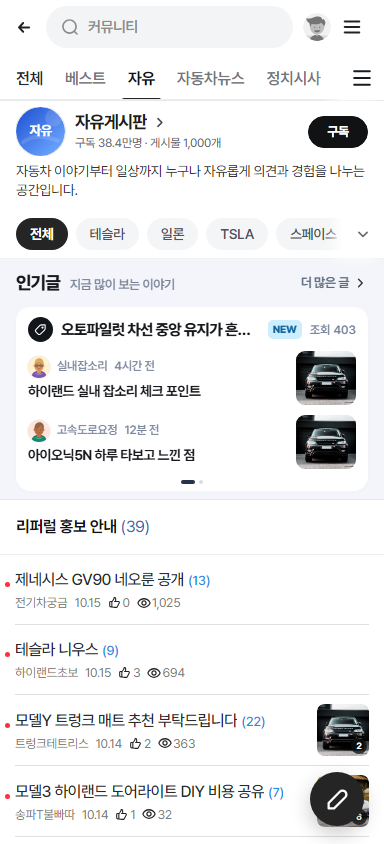
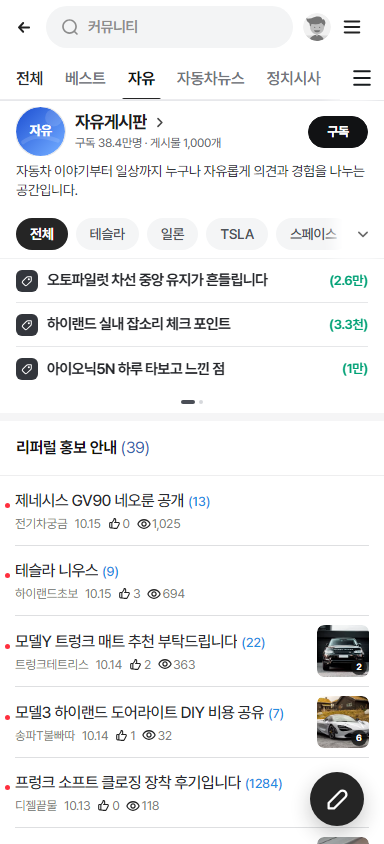
Show popular posts as Chzzk pinned rows

diff --git a/public/community/naver-cafe-list.html b/public/community/naver-cafe-list.html
@@ -9,7 +9,7 @@
 <link rel="stylesheet" href="./reddit-feed.css?v=20261016redditicons1">
 <link rel="stylesheet" href="./naver-discussion-feed.css?v=20261016naverdiscussion1">
 <link rel="stylesheet" href="./chotot-feed.css?v=20261016saveicon1">
-<link rel="stylesheet" href="./reddit-popular.css?v=20261016popular4">
+<link rel="stylesheet" href="./reddit-popular.css?v=20261016popular5">
 <link rel="stylesheet" href="./hupu-board-navigation.css?v=20261016reorder2">
 <link rel="stylesheet" href="./reddit-board-profile.css?v=20261016redditsubscribe1">
 <link rel="icon" href="./assets/chzzk-detail/author-avatar.png">
@@ -53,7 +53,7 @@
[1 lines of base64/hex data omitted]
 <section id="boardDescriptionSection" class="boardDescriptionSection"><div class="boardDescription"><span id="boardDescriptionText" class="boardDescriptionText">자동차 이야기부터 일상까지 자유롭게 나누는 보배드림 커뮤니티입니다.</span></div><button id="boardDescriptionToggle" class="sectionToggle descriptionToggle" type="button" aria-expanded="false" aria-controls="boardDescriptionText" aria-label="게시판 설명 전체 열기"><img src="assets/reddit-ui/chevron-down.svg" alt=""></button></section>
 <section id="headwordSection" class="headwordSection"><nav id="category" class="category" aria-label="말머리"></nav><button id="categoryToggle" class="categoryToggle sectionToggle" type="button" aria-expanded="false" aria-controls="category" aria-label="말머리 전체 열기"><img src="assets/reddit-ui/chevron-down.svg" alt=""></button></section>
-<section id="popularSection" class="popularSection" aria-labelledby="popularTitle"><div class="popularHeading"><div class="popularHeadingCopy"><strong id="popularTitle">인기글</strong><span>지금 많이 보는 이야기</span></div><button id="popularToggle" class="popularMore" type="button" aria-label="인기글 다음 묶음 보기" aria-controls="popularScroller"><span>더 많은 글</span><img src="assets/reddit-ui/chevron-right.svg" alt=""></button></div><div id="popularScroller" class="popularScroller"><div id="popularTrack" class="popularTrack" aria-live="polite"></div></div></section>
+<section id="popularSection" class="popularSection" aria-label="인기글"><div id="popularScroller" class="popularScroller"><div id="popularTrack" class="popularTrack" aria-live="polite"></div></div><button id="popularToggle" class="popularPagerButton" type="button" aria-label="인기글 다음 묶음 보기" aria-controls="popularScroller"></button></section>
 <section class="noticeRow"><span class="noticeText">리퍼럴 홍보 안내<span class="noticeComment">(39)</span></span></section>
 <section id="list" class="list"></section><div class="bottomSpace"></div>
 <button class="fab" aria-label="글쓰기"><img src="assets/reddit-ui/write.svg" alt=""></button>
@@ -206,7 +206,7 @@ renderList();
 // title line selector is added inside the main list controller below.
 </script>
 <script src="./scenario-data.js?v=20261015avatars1"></script>
-<script src="./reddit-popular.js?v=20261016popular4"></script>
+<script src="./reddit-popular.js?v=20261016popular5"></script>
 <script src="./reddit-feed.js?v=20261016redditicons1"></script>
 <script src="./naver-discussion-feed.js?v=20261016naverdiscussion1"></script>
 <script src="./chotot-feed.js?v=20261016redditicons2"></script>

diff --git a/public/community/reddit-popular.css b/public/community/reddit-popular.css
@@ -1,33 +1,16 @@
-.popularSection{padding:0 0 8px;border-bottom:1px solid #e5e8ef;background:#f3f5fa;color:#17191d}
-.popularHeading{display:flex;width:100%;height:48px;align-items:center;justify-content:space-between;padding:0 16px;box-sizing:border-box}
-.popularHeadingCopy{display:flex;min-width:0;align-items:baseline;gap:10px}
-.popularHeadingCopy strong{flex:0 0 auto;font-size:18px;font-weight:800;line-height:24px;letter-spacing:-.055em}
-.popularHeadingCopy span{min-width:0;overflow:hidden;color:#768096;font-size:13px;font-weight:520;line-height:19px;letter-spacing:-.035em;text-overflow:ellipsis;white-space:nowrap}
-.popularMore{display:inline-flex;height:40px;flex:0 0 auto;align-items:center;gap:3px;padding-left:10px;background:transparent;color:#606b82;font-size:13px;font-weight:650;line-height:18px;letter-spacing:-.035em}
-.popularMore img{width:16px;height:16px;opacity:.78;transition:transform .16s ease}
-.popularMore:active img{transform:translateX(2px)}
+.popularSection{border-bottom:8px solid #f5f5f6;background:#fff;color:#17191d}
 .popularScroller{overflow:hidden;padding:0 16px}
 .popularTrack{width:100%;transition:opacity .14s ease,transform .14s ease}
 .popularTrack.isChanging{opacity:.35;transform:translateY(2px)}
-.popularPanel{overflow:hidden;width:100%;padding:10px 12px 7px;border-radius:14px;background:#fff;box-shadow:0 1px 2px rgba(24,33,52,.035);box-sizing:border-box}
-.popularLead{display:flex;min-width:0;align-items:center;gap:8px;color:#17191d;text-decoration:none}
-.popularLeadIcon{display:grid;width:25px;height:25px;flex:0 0 25px;place-items:center;border-radius:50%;background:#12151a}
-.popularLeadIcon img{width:13px;height:13px;filter:invert(1)}
-.popularLeadTitle{min-width:0;overflow:hidden;color:#17191d;font-size:15.5px;font-weight:760;line-height:22px;letter-spacing:-.045em;text-overflow:ellipsis;white-space:nowrap}
-.popularNew{display:inline-flex;height:19px;flex:0 0 auto;align-items:center;padding:0 5px;border-radius:5px;background:#cceeff;color:#12649b;font-size:10.5px;font-weight:850;line-height:19px;letter-spacing:-.02em}
-.popularHeat{margin-left:auto;flex:0 0 auto;color:#748099;font-size:12px;font-weight:520;line-height:18px;white-space:nowrap}
-.popularStories{margin-top:6px}
-.popularStory{display:grid;min-height:60px;grid-template-columns:minmax(0,1fr) 60px;column-gap:10px;align-items:center;color:#17191d;text-decoration:none}
-.popularStory+.popularStory{margin-top:4px}
-.popularStoryCopy{min-width:0}
-.popularStoryMeta{display:flex;min-width:0;align-items:center;gap:7px;color:#7a859b;font-size:12px;font-weight:520;line-height:17px;letter-spacing:-.025em}
-.popularStoryAvatar{width:22px;height:22px;flex:0 0 22px;border-radius:50%;background:#e7e9ee;object-fit:cover;box-shadow:0 0 0 1px rgba(0,0,0,.045)}
-.popularStoryAuthor{max-width:96px;overflow:hidden;text-overflow:ellipsis;white-space:nowrap}
-.popularStoryTime{flex:0 0 auto;white-space:nowrap}
-.popularStoryTitle{display:-webkit-box;overflow:hidden;margin-top:4px;color:#17191d;font-size:14px;font-weight:650;line-height:19px;letter-spacing:-.04em;word-break:keep-all;-webkit-box-orient:vertical;-webkit-line-clamp:2}
-.popularStoryMedia{width:60px;height:54px;border-radius:9px;background:#e7e9ee;object-fit:cover}
-.popularPager{display:flex;height:12px;align-items:flex-end;justify-content:center;gap:4px}
-.popularPager span{width:4px;height:4px;border-radius:999px;background:#d9dee8}
-.popularPager span.on{width:14px;background:#27334a}
+.popularPanel{width:100%;background:#fff}
+.popularPinnedRow{display:grid;width:100%;height:44px;grid-template-columns:22px minmax(0,1fr) auto;align-items:center;column-gap:9px;border-bottom:1px solid #e6e7e9;color:#17191d;text-decoration:none;box-sizing:border-box}
+.popularPinnedRow:last-child{border-bottom:0}
+.popularPinBadge{display:grid;width:22px;height:22px;place-items:center;border-radius:6px;background:#33363c}
+.popularPinBadge img{width:12px;height:12px;filter:invert(1)}
+.popularPinnedTitle{min-width:0;overflow:hidden;color:#24262a;font-size:15px;font-weight:650;line-height:21px;letter-spacing:-.045em;text-overflow:ellipsis;white-space:nowrap}
+.popularPinnedReply{flex:0 0 auto;color:#00a176;font-size:13px;font-weight:620;line-height:20px;letter-spacing:-.02em}
+.popularPagerButton{display:flex;width:100%;height:22px;align-items:center;justify-content:center;gap:4px;background:#fff}
+.popularPagerButton span{width:4px;height:4px;border-radius:999px;background:#d6d8dc}
+.popularPagerButton span.on{width:14px;background:#4a4e56}
 .phone.redditFeedMode .popularSection{display:none}
-@media(max-width:370px){.popularHeading{padding:0 14px}.popularHeadingCopy{gap:7px}.popularHeadingCopy span{font-size:12px}.popularMore{padding-left:6px}.popularScroller{padding:0 14px}.popularPanel{padding-right:10px;padding-left:10px}.popularStory{grid-template-columns:minmax(0,1fr) 56px;column-gap:9px}.popularStoryMedia{width:56px;height:52px}}
+@media(max-width:370px){.popularScroller{padding:0 14px}.popularPinnedRow{grid-template-columns:21px minmax(0,1fr) auto;column-gap:8px}.popularPinBadge{width:21px;height:21px}.popularPinnedTitle{font-size:14.5px}}

diff --git a/public/community/reddit-popular.js b/public/community/reddit-popular.js
@@ -17,13 +17,6 @@
     return String(value||'').replace(/^\[[^\]]+\]\s*/,'');
   }
 
-  function imageFor(post,index){
-    if(post.detailImage)return post.detailImage;
-    if(post.thumbnail)return post.thumbnail.replace('w=220','w=520');
-    var fallback=['photo-1617788138017-80ad40651399','photo-1563720223185-11003d516935','photo-1542362567-b07e54358753'];
-    return 'https://images.unsplash.com/'+fallback[index%fallback.length]+'?auto=format&fit=crop&w=520&q=82';
-  }
-
   function compactCount(value){
     var count=Math.max(0,Number(value)||0);
     if(count>=10000)return (count/10000).toFixed(count>=100000?0:1).replace(/\.0$/,'')+'만';
@@ -32,18 +25,16 @@
   }
 
   function hrefFor(post){
-    return './chzzk-detail.html?id='+encodeURIComponent(post.id)+'&v=20261016popular4';
+    return './chzzk-detail.html?id='+encodeURIComponent(post.id)+'&v=20261016popular5';
   }
 
-  function storyMarkup(post,index){
+  function rowMarkup(post){
     var title=cleanTitle(post.title);
-    var avatar=post.authorAvatar||'assets/profile-avatars/avatar-01.svg';
-    return '<a class="popularStory" href="'+hrefFor(post)+'" aria-label="인기글: '+esc(title)+'"><div class="popularStoryCopy"><div class="popularStoryMeta"><img class="popularStoryAvatar" src="'+esc(avatar)+'" alt=""><span class="popularStoryAuthor">'+esc(post.user)+'</span><span class="popularStoryTime">'+esc(post.time)+'</span></div><strong class="popularStoryTitle">'+esc(title)+'</strong></div><img class="popularStoryMedia" src="'+esc(imageFor(post,index))+'" alt="" loading="lazy"></a>';
+    return '<a class="popularPinnedRow" href="'+hrefFor(post)+'" aria-label="인기글: '+esc(title)+'"><span class="popularPinBadge"><img src="assets/write-parity/tag.svg" alt=""></span><strong class="popularPinnedTitle">'+esc(title)+'</strong><span class="popularPinnedReply">('+compactCount(post.reply)+')</span></a>';
   }
 
   function render(){
-    var source=(window.BOBAE_POSTS||[]).slice();
-    var ranked=source.sort(function(a,b){
+    var ranked=(window.BOBAE_POSTS||[]).slice().sort(function(a,b){
       var aScore=(Number(a.view)||0)+(Number(a.likes)||0)*14+Math.min(Number(a.reply)||0,999)*2;
       var bScore=(Number(b.view)||0)+(Number(b.likes)||0)*14+Math.min(Number(b.reply)||0,999)*2;
       return bScore-aScore;
@@ -51,12 +42,11 @@
     if(!ranked.length){section.hidden=true;return;}
     var pageCount=Math.max(1,Math.ceil(ranked.length/3));
     var page=Math.floor(pageOffset/3)%pageCount;
-    var popular=ranked.slice(page*3).concat(ranked.slice(0,page*3));
-    var lead=popular[0];
-    var stories=popular.slice(1,3);
-    var leadTitle=cleanTitle(lead.title);
+    var popular=ranked.slice(page*3,page*3+3);
     var dots=Array.from({length:pageCount},function(_,index){return '<span class="'+(index===page?'on':'')+'" aria-hidden="true"></span>';}).join('');
-    track.innerHTML='<article class="popularPanel"><a class="popularLead" href="'+hrefFor(lead)+'" aria-label="대표 인기글: '+esc(leadTitle)+'"><span class="popularLeadIcon"><img src="assets/write-parity/tag.svg" alt=""></span><strong class="popularLeadTitle">'+esc(leadTitle)+'</strong><span class="popularNew">NEW</span><span class="popularHeat">조회 '+compactCount(lead.view)+'</span></a><div class="popularStories">'+stories.map(storyMarkup).join('')+'</div><div class="popularPager" aria-label="'+(page+1)+' / '+pageCount+' 페이지">'+dots+'</div></article>';
+    track.innerHTML='<div class="popularPanel">'+popular.map(rowMarkup).join('')+'</div>';
+    toggle.innerHTML=dots;
+    toggle.setAttribute('aria-label','인기글 '+(page+1)+' / '+pageCount+' · 다음 묶음 보기');
     section.hidden=false;
   }
 

diff --git a/design-qa.md b/design-qa.md
@@ -1,3 +1,37 @@
+# 커뮤니티 치지직형 인기글 고정 행 QA · 2026-10-16
+
+- source visual truth: 첨부 이미지 `1000018598.jpg`의 게시판 상단 고정 게시물 영역 (592 × 1280px)
+- browser-rendered implementation: `artifacts/community-board-order-1015/mobile-384-top-menu-tiktok-text.png` (384 × 844px)
+- focused source: `artifacts/community-popular-chzzk-pinned-1016/reference-pinned-384.png` (384 × 144px)
+- focused implementation: `artifacts/community-popular-chzzk-pinned-1016/implementation-pinned-384.png` (384 × 163px)
+- full-view comparison evidence: `artifacts/community-popular-chzzk-pinned-1016/comparison.png` (792 × 215px)
+- viewport and density: 구현 384 × 844 CSS px, DPR 1. 첨부 화면의 고정 게시물 구간을 폭 384px로 정규화했다.
+- state: 자유게시판, 인기글 첫 묶음 3개가 말머리 바로 아래에 놓인 기본 상태
+
+## Findings
+
+- P0/P1/P2 없음.
+- fonts and typography: 15px/650 한 줄 제목과 13px 댓글 수를 사용해 치지직의 조밀한 공지 행 위계를 맞췄다.
+- spacing and layout rhythm: 별도 카드·섹션 제목을 제거하고 44px 게시물 행 3개, 1px 구분선, 22px 페이지 표시로 일반 게시물 목록에 자연스럽게 이어지도록 했다.
+- colors and visual tokens: 흰 배경, 짙은 핀 배지, 검정 제목, 초록 댓글 수, 연한 회색 구분선을 원본과 동일한 역할로 사용했다.
+- image quality and asset fidelity: 핀 역할 배지는 기존 프로젝트 태그 SVG 자산을 재사용해 22px 정사각형 안에 배치했으며 래스터 왜곡이나 임시 도형이 없다.
+- copy and content: 실제 인기 점수 상위 게시물 제목과 댓글 수를 표시하며 각 행을 `인기글`로 명확하게 접근성 라벨링했다.
+- interaction: 각 행은 상세 페이지로 연결되고, 하단 페이지 표시 버튼을 누르면 상위 인기글 다음 3개로 전환된다.
+- browser verification: Chrome 로컬 렌더에서 인기글 3개, 섹션 실측 높이 162px, 가로 넘침 없음, 전환 후 첫 인기글 변경, 콘솔 오류 0건을 확인했다.
+- regression verification: `npm run check:runtime`, `npm run community:verify:board-order`, `node --check public/community/reddit-popular.js`, `git diff --check`가 통과했다.
+
+## Comparison history
+
+- Pass 1: 동처띠식 별도 카드 패널은 치지직 참고 화면처럼 게시물 목록 안에서 고정 행으로 읽히지 않았다.
+- Fix: 섹션 제목·썸네일 패널을 제거하고 어두운 핀 배지, 한 줄 제목, 우측 댓글 수로 구성한 고정 게시물 행 3개로 교체했다.
+- Pass 2: 52px 행은 참고 화면보다 세로 밀도가 낮았다.
+- Fix: 행을 44px, 배지를 22px, 페이지 표시를 22px로 줄였다.
+- Final: 정규화한 원본과 구현을 한 이미지에 나란히 비교한 결과 남은 P0/P1/P2는 없다.
+
+final result: passed
+
+---
+
 # 커뮤니티 동처띠 상단 우측 썸네일 인기글 QA · 2026-10-16
 
 - source visual truth: Google Drive `동처띠 우측 썸네일 인기글.jpg`의 상단 `赛事直击` 영역 (`.tmp/dcd-popular-reference.jpg`, 1080 × 2400px)
